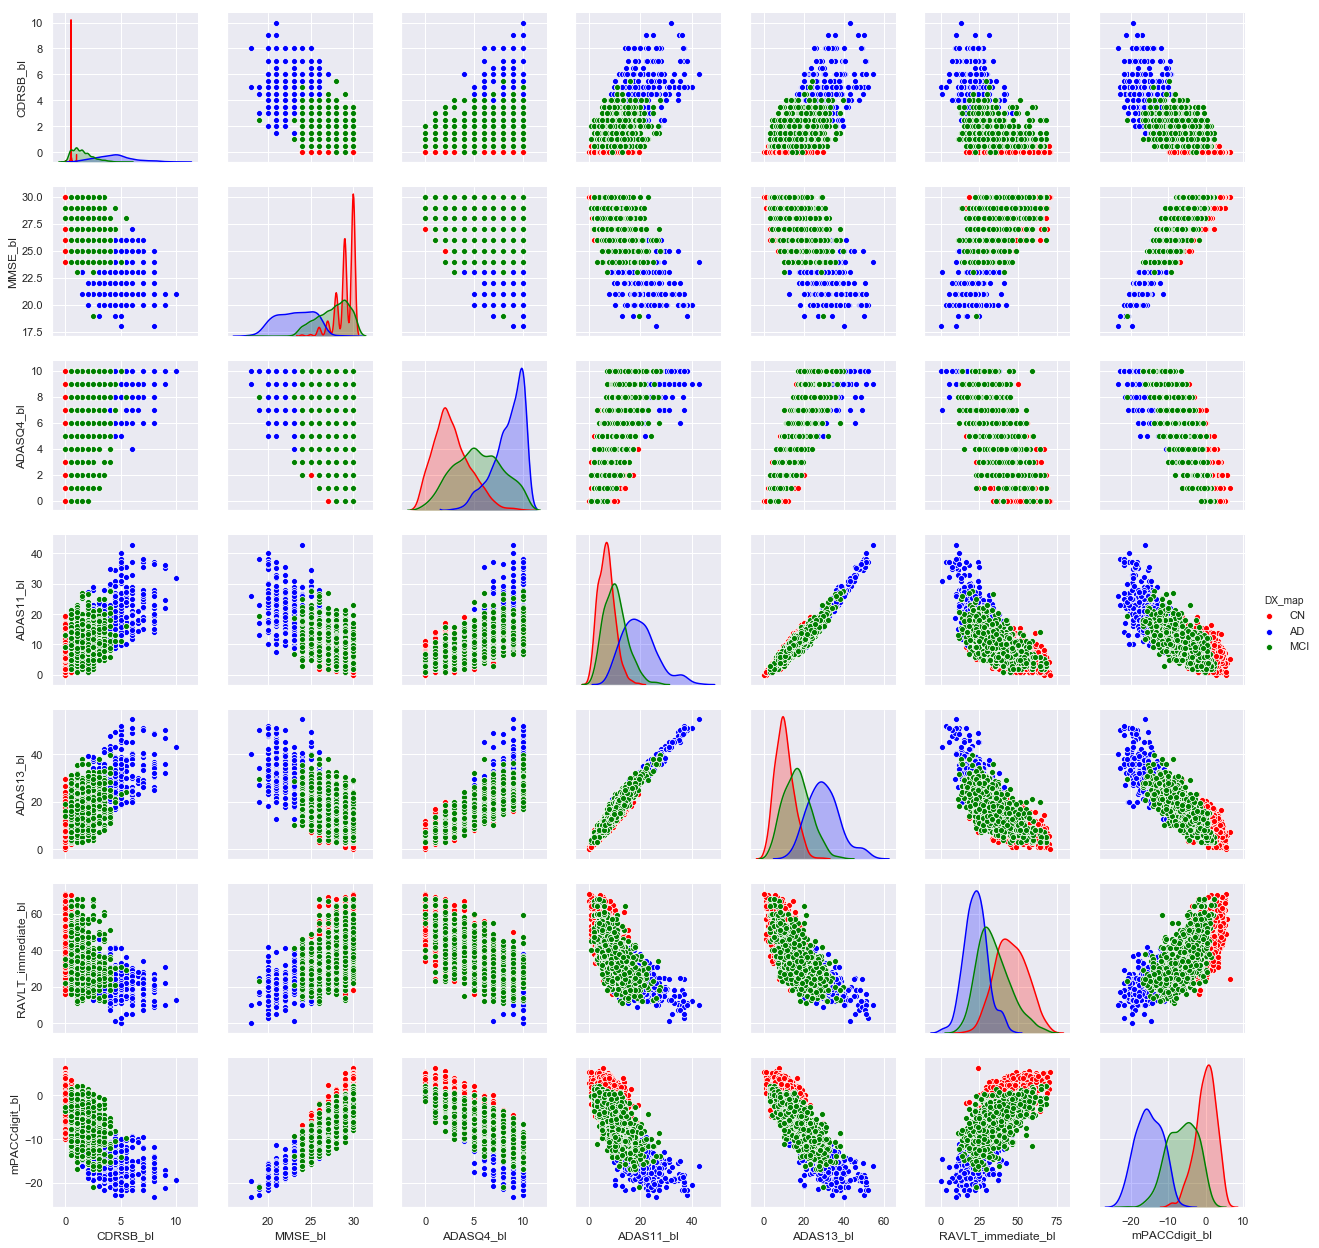
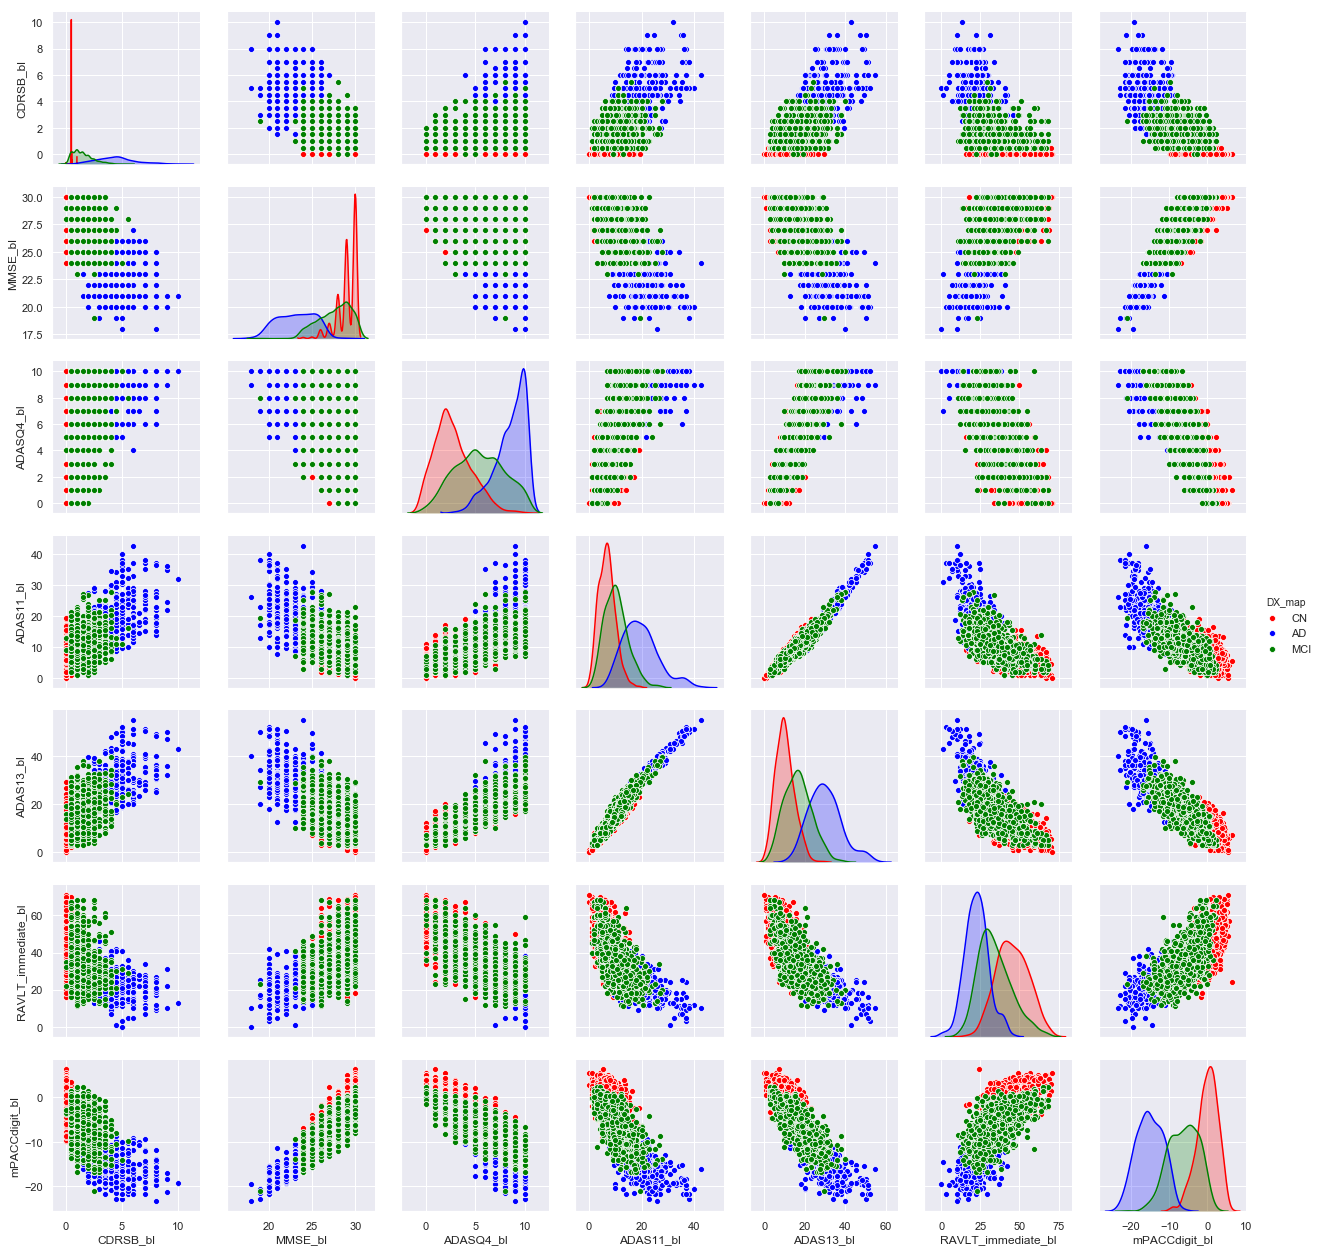
testing eda

diff --git a/eda.md b/eda.md
@@ -1,7 +1,7 @@
 ---
 title: EDA
 notebook: eda.ipynb
-nav_include: 1
+nav_include: 2
 ---
 
 ## Contents
@@ -229,6 +229,17 @@ sns.pairplot(baseline_df, vars=cols, hue="DX_map", height=2.5, diag_kind='kde',
 ```
 
 
+
+
+
+    <seaborn.axisgrid.PairGrid at 0x105877eb8>
+
+
+
+
+![png](eda_files/eda_12_1.png)
+
+
 ## Diagnoses Over Time
 
 
@@ -267,6 +278,10 @@ fig.tight_layout()
 ```
 
 
+
+![png](eda_files/eda_16_0.png)
+
+
 ### Change in Diagnosis Between First Visit and Latest Visit
 
 
@@ -290,6 +305,9 @@ df_dx = df_dx.merge(df_last_imp, how='left', on='RID')
 df_dx = df_dx.dropna(axis=0)
 print(df_dx.shape)
 ```
+
+
+    (1648, 3)
 
 
 
@@ -331,6 +349,10 @@ for tick in ax[1].xaxis.get_major_ticks():
 
 
 
+![png](eda_files/eda_20_0.png)
+
+
+
 
 ```python
 outcomes = df_dx['transition'].value_counts()
@@ -358,6 +380,61 @@ columns = columns[-1:] + columns[:-1]
 table_changes = table_changes[columns]
 table_changes
 ```
+
+
+
+
+
+<div>
+<style scoped>
+    .dataframe tbody tr th:only-of-type {
+        vertical-align: middle;
+    }
+
+    .dataframe tbody tr th {
+        vertical-align: top;
+    }
+
+    .dataframe thead th {
+        text-align: right;
+    }
+</style>
+<table border="1" class="dataframe">
+  <thead>
+    <tr style="text-align: right;">
+      <th></th>
+      <th>DX</th>
+      <th>End CN</th>
+      <th>End MCI</th>
+      <th>End AD</th>
+    </tr>
+  </thead>
+  <tbody>
+    <tr>
+      <th>0</th>
+      <td>Start CN</td>
+      <td>555.0</td>
+      <td>48.0</td>
+      <td>12.0</td>
+    </tr>
+    <tr>
+      <th>1</th>
+      <td>Start MCI</td>
+      <td>39.0</td>
+      <td>578.0</td>
+      <td>156.0</td>
+    </tr>
+    <tr>
+      <th>2</th>
+      <td>Start AD</td>
+      <td>0.0</td>
+      <td>1.0</td>
+      <td>259.0</td>
+    </tr>
+  </tbody>
+</table>
+</div>
+
 
 
 

diff --git a/index.md b/index.md
@@ -23,4 +23,4 @@ Here are our research questions
 
 ## Related Work
 
-Here is our related work
+Here is our related work. 
